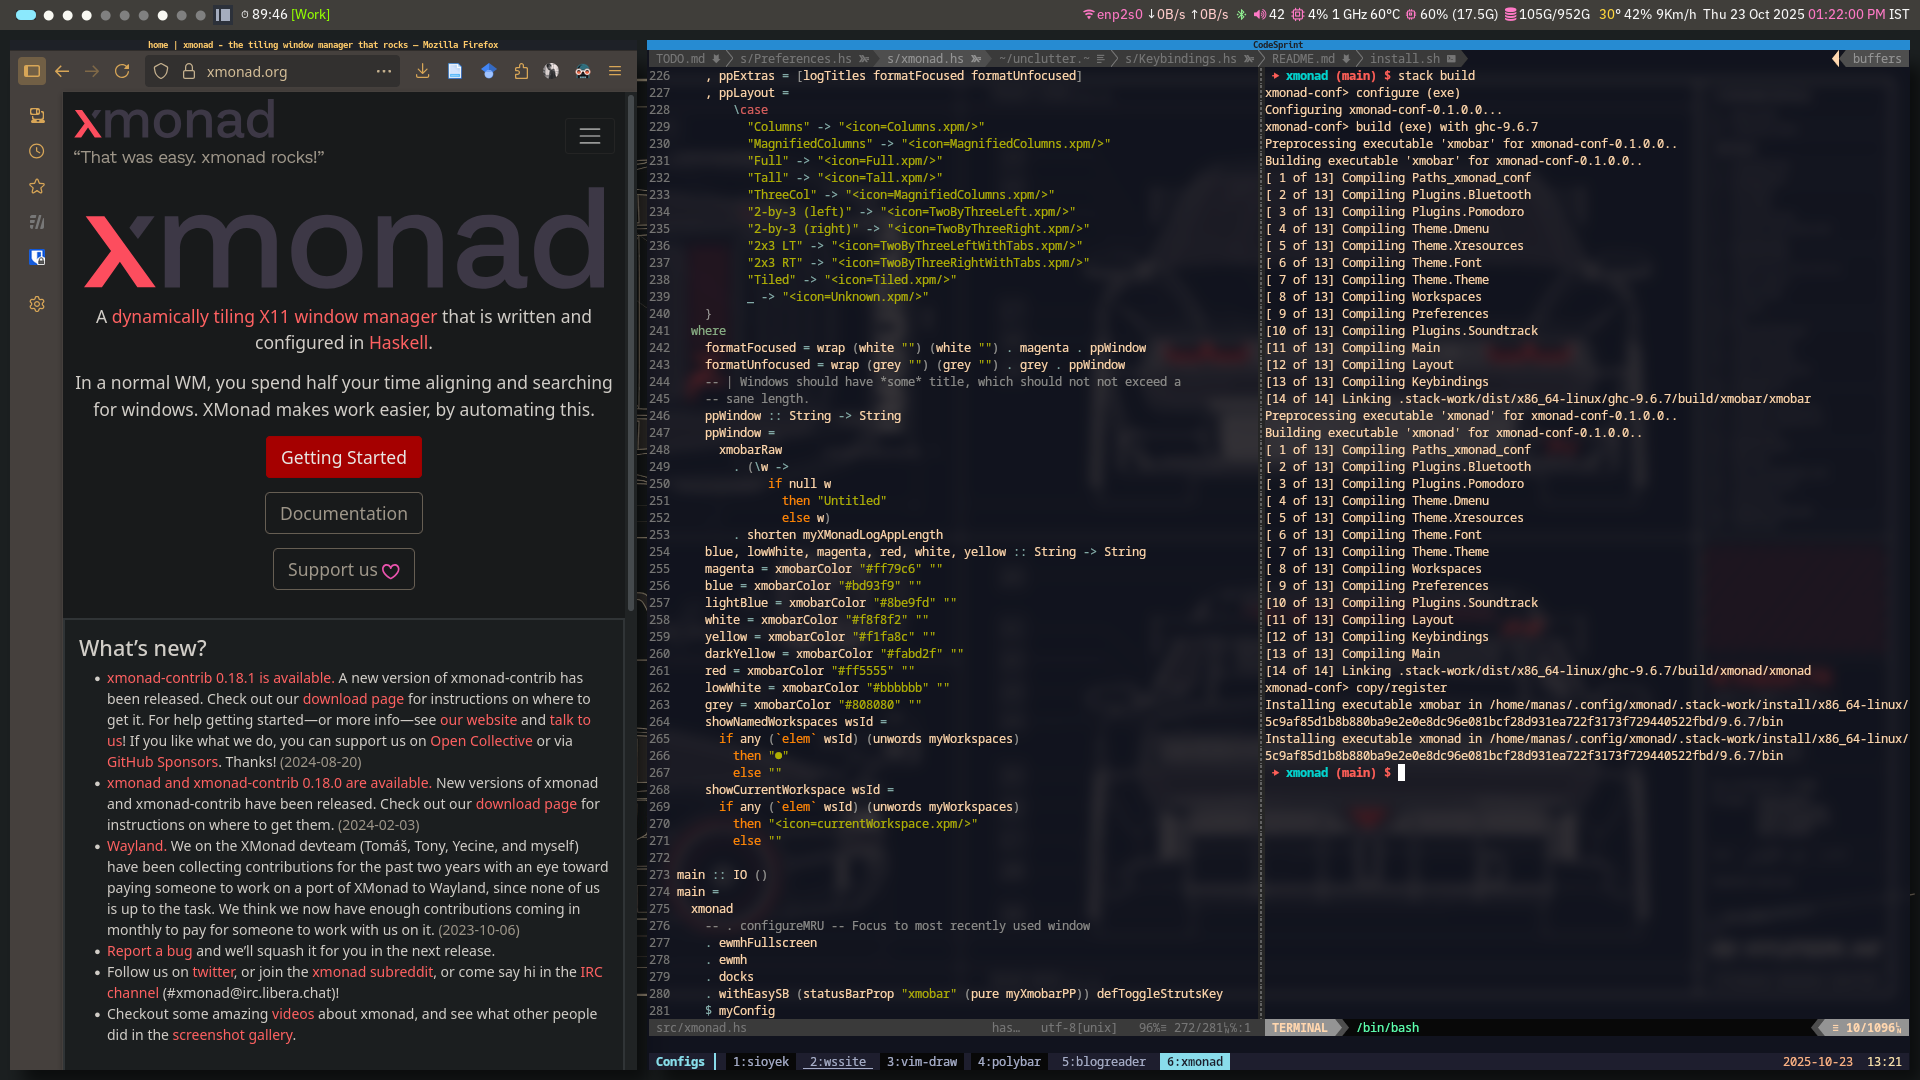
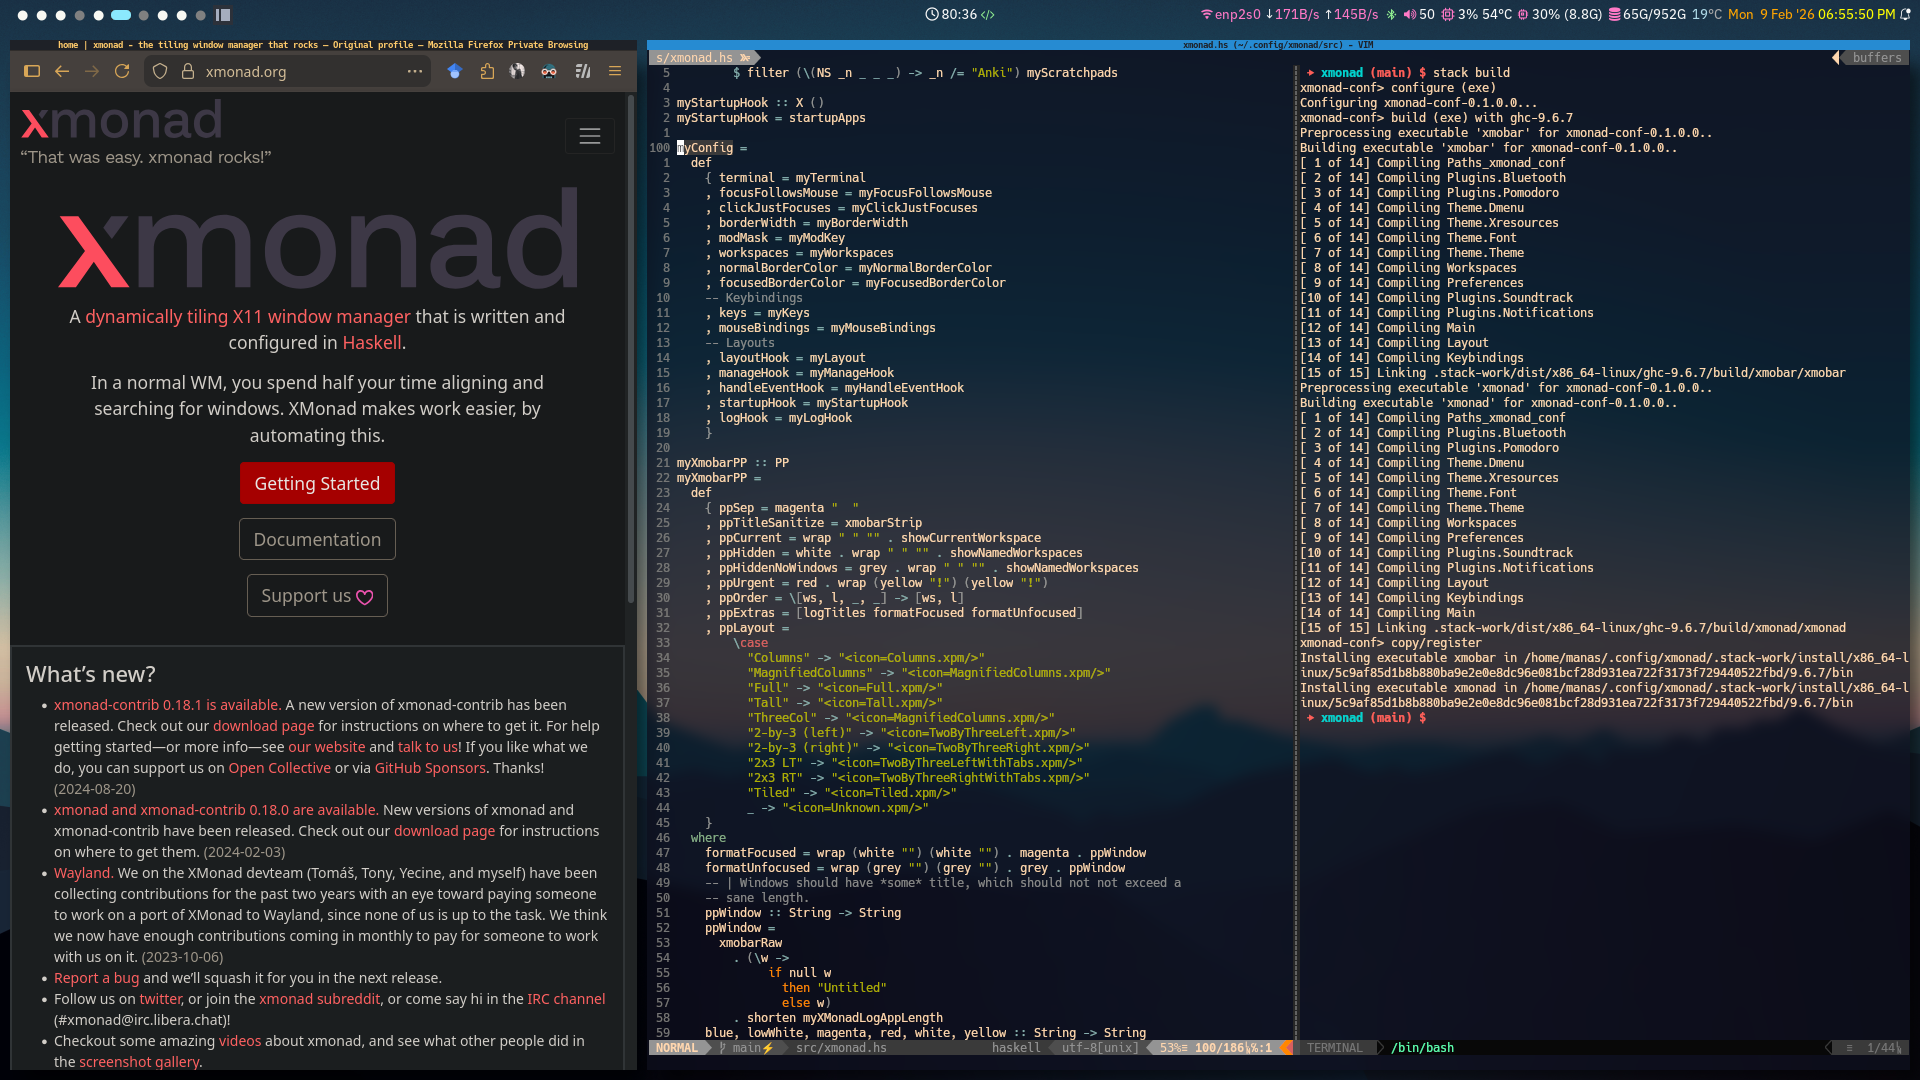
Change previews

diff --git a/README.md b/README.md
@@ -4,7 +4,7 @@
 
 ![XMonad Preview](./preview/xmonad.png)
 
-![Rofi Launcher](./preview/rofi.png)
+![XMonad Keybindings](./preview/keybindings.png)
 
 ## Installation
 
